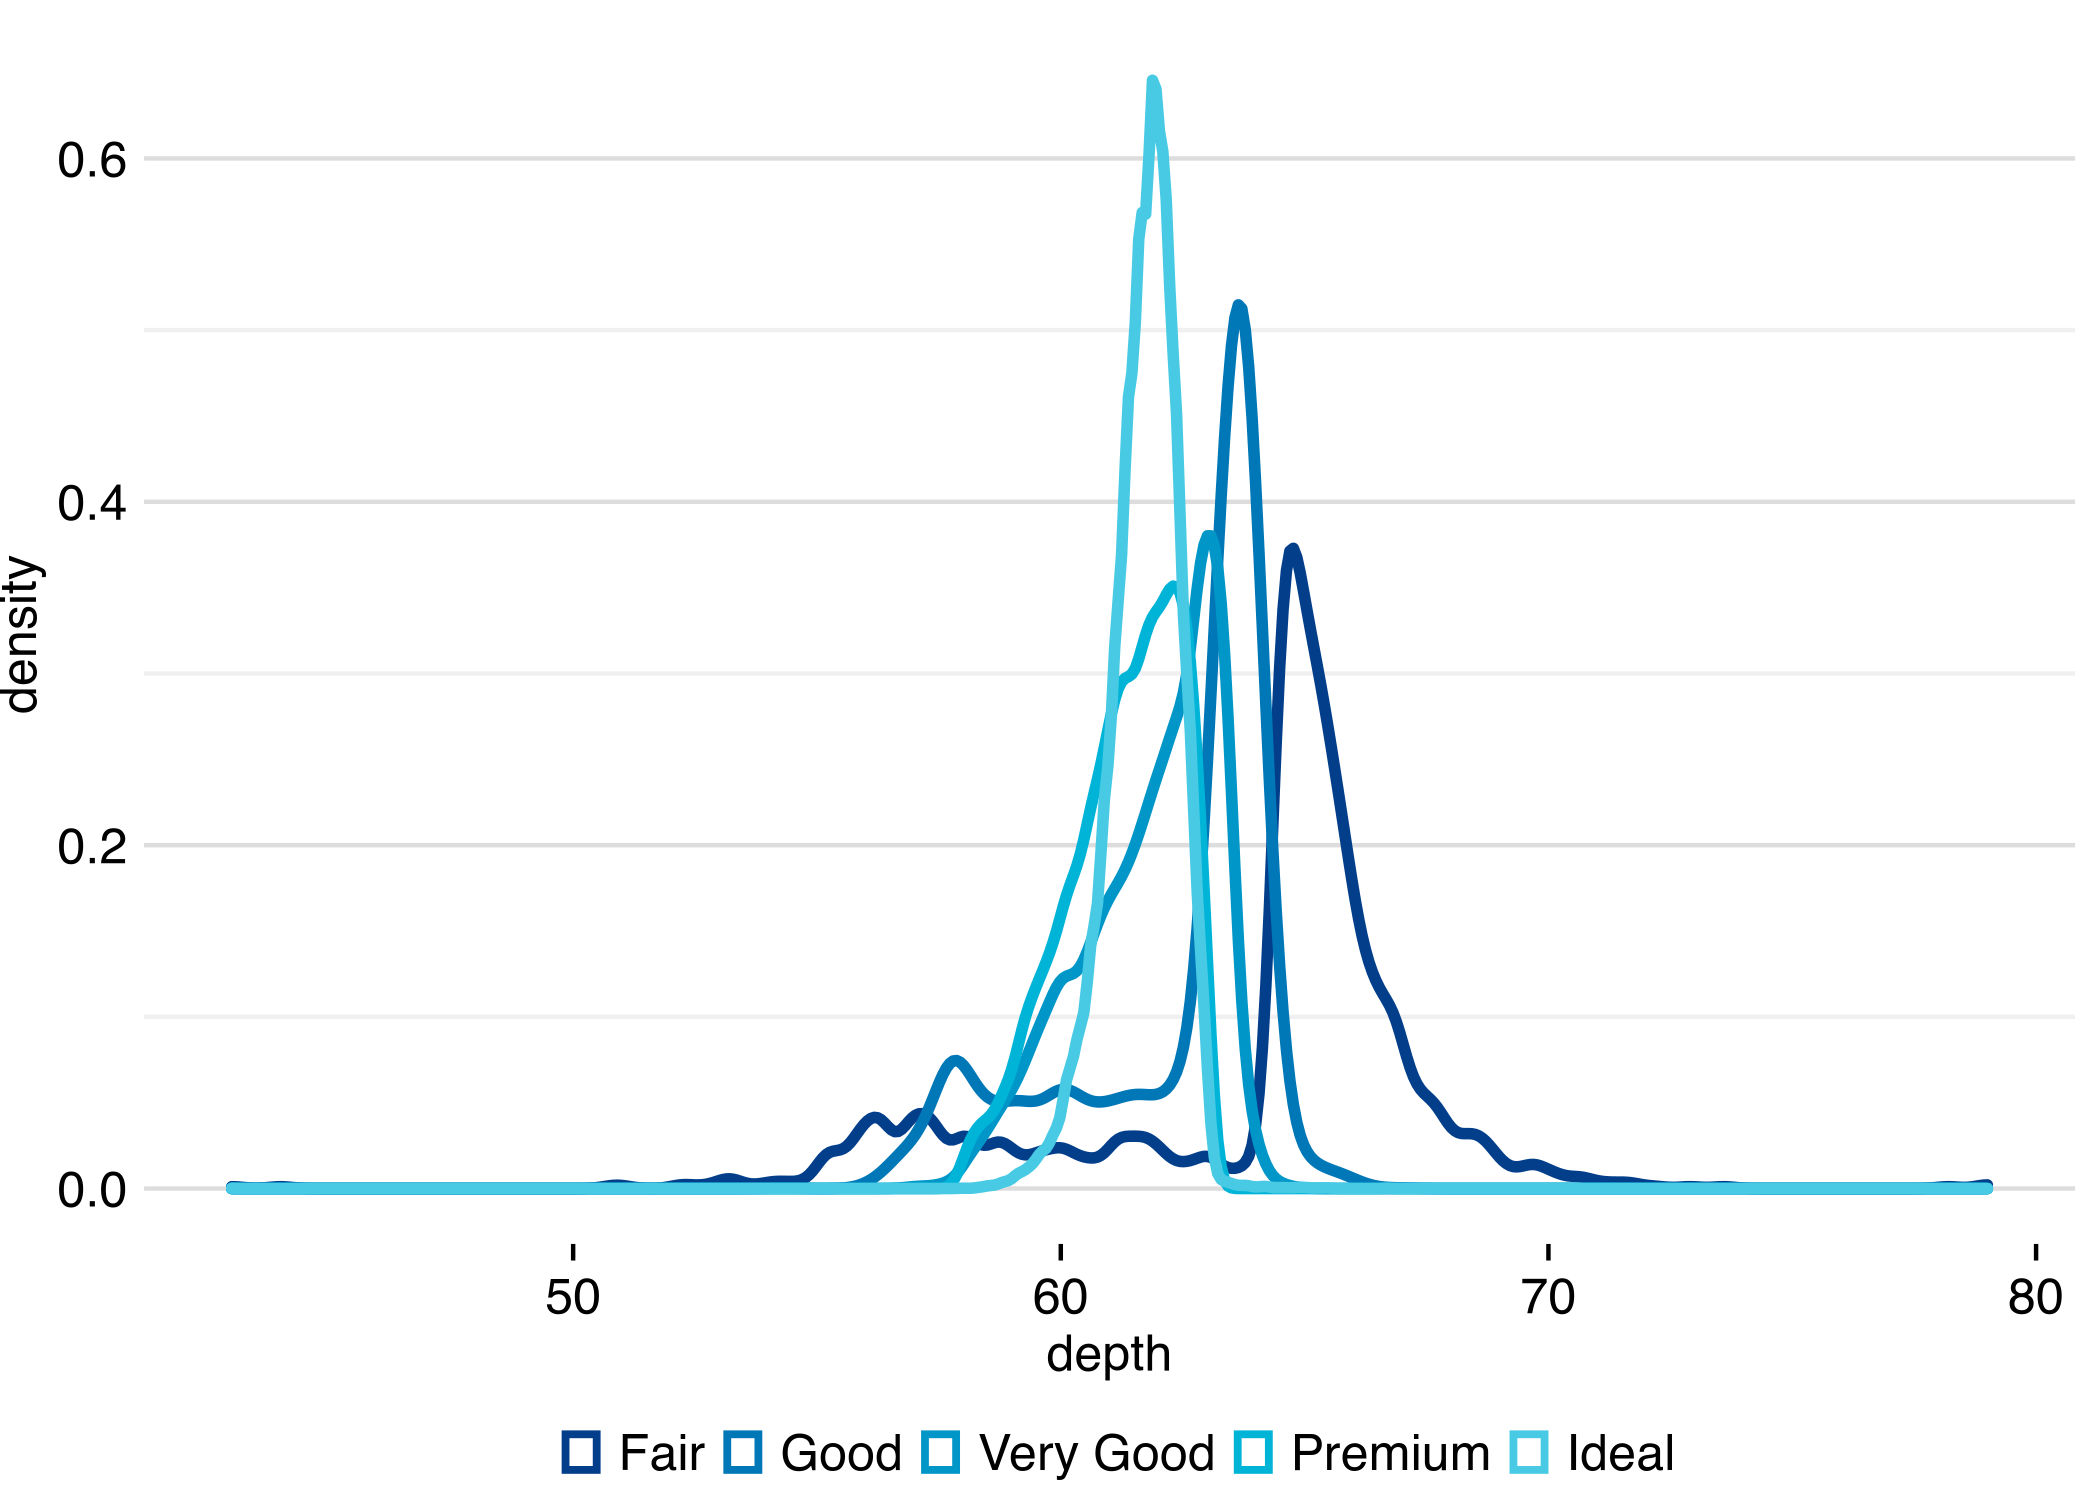
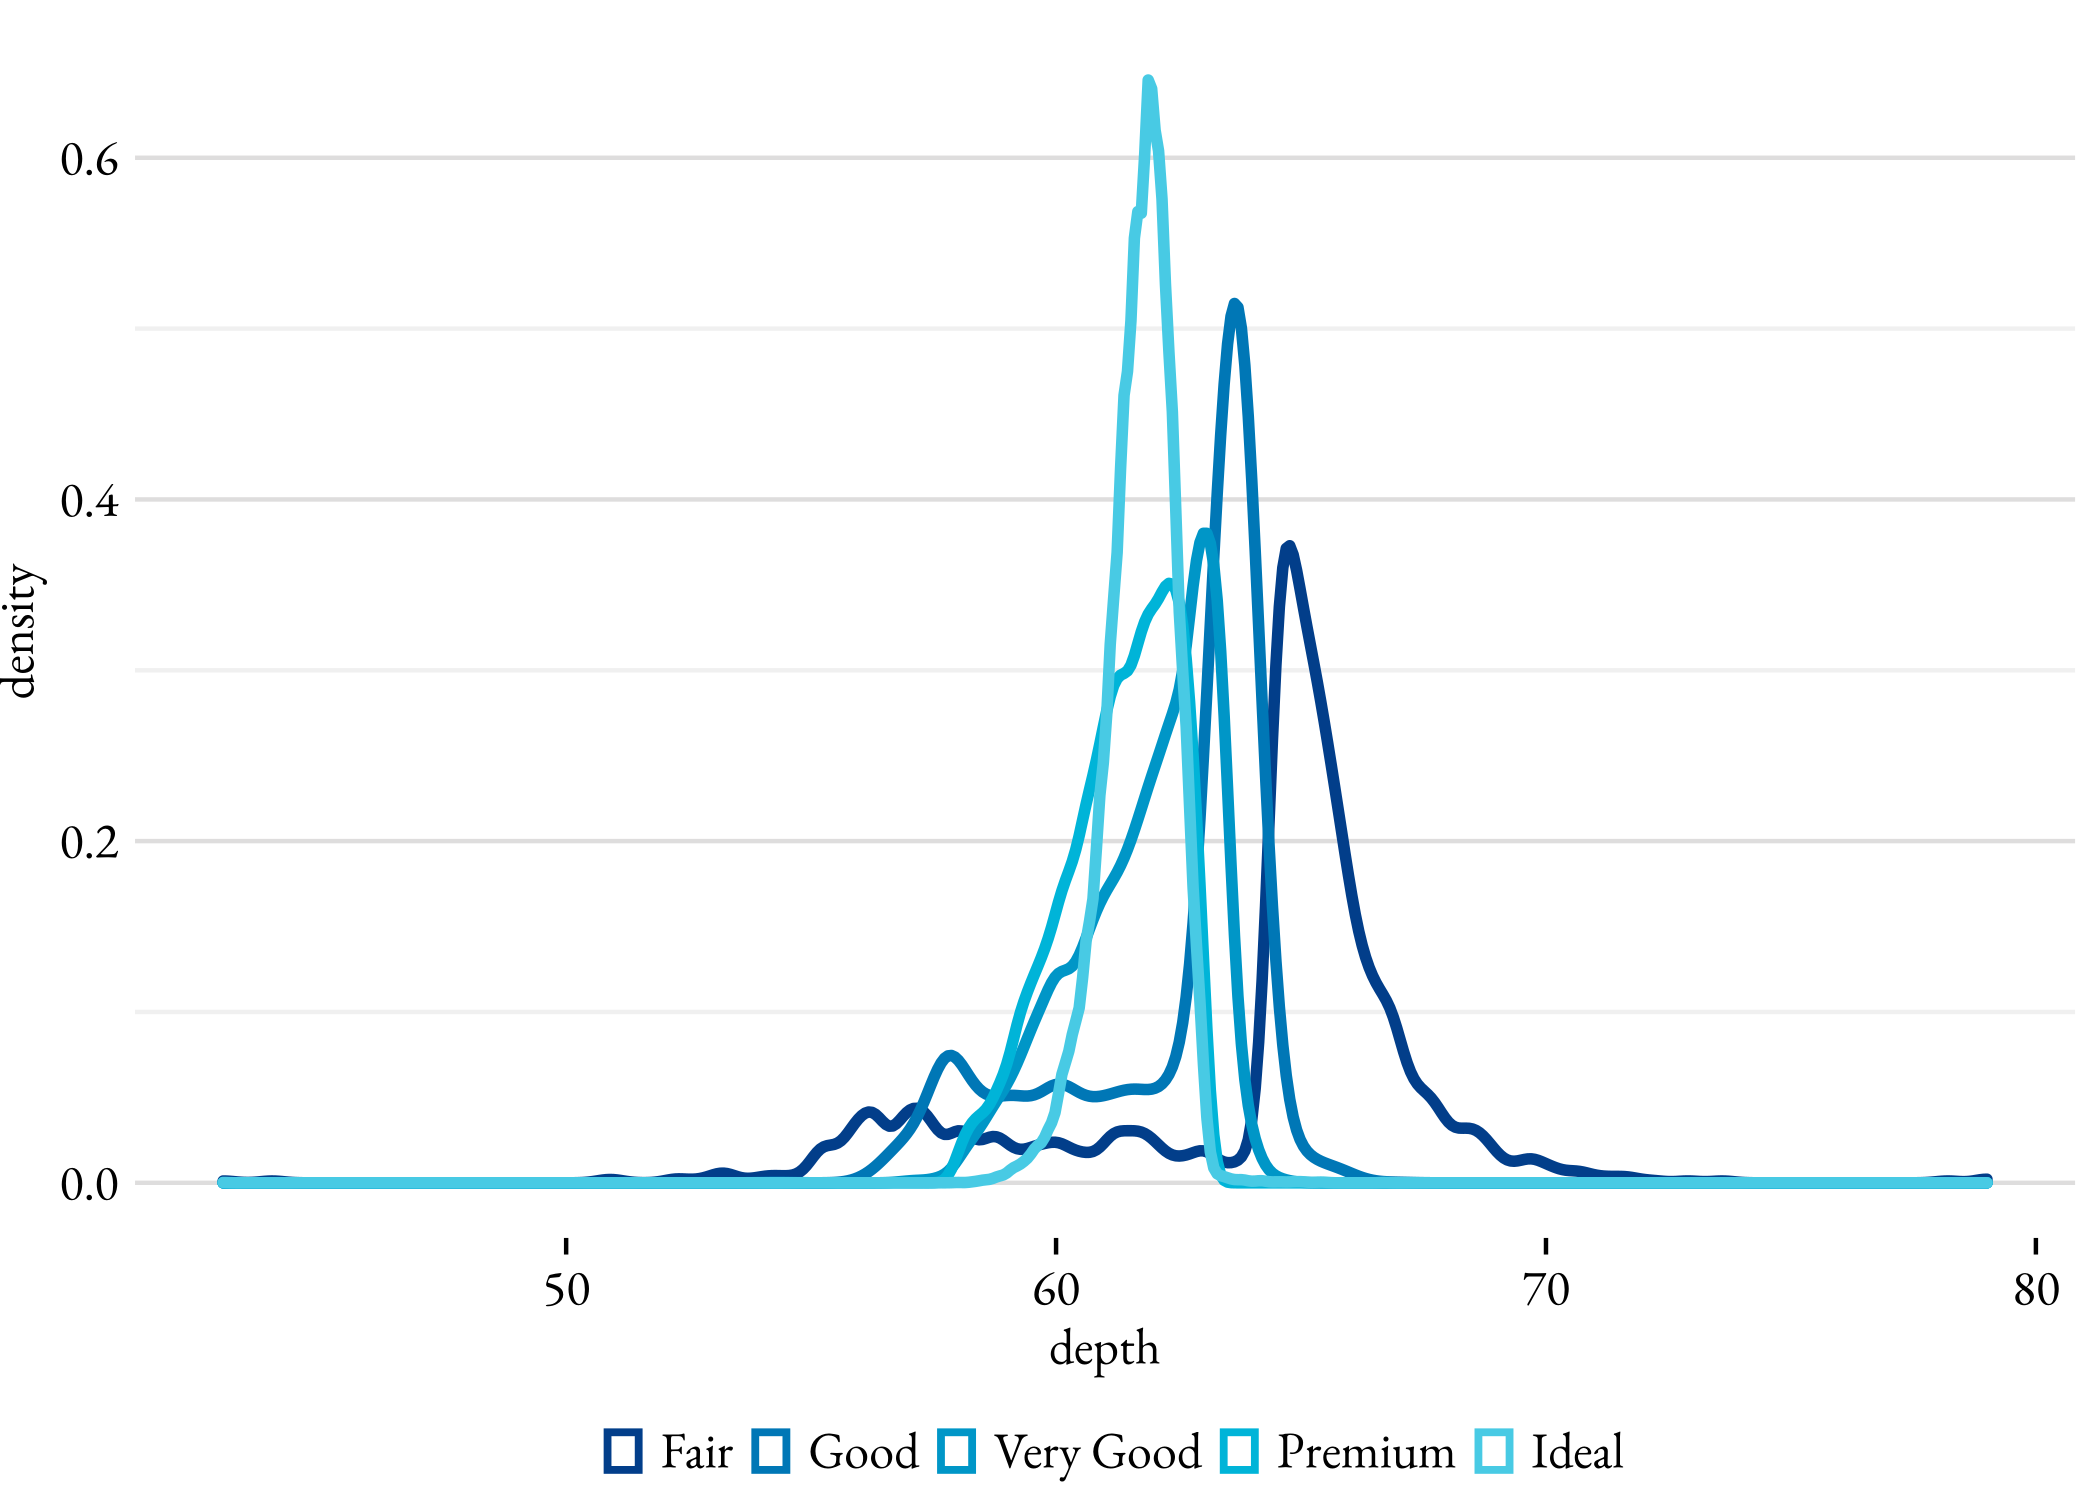
add load_font arg

diff --git a/README.md b/README.md
@@ -23,15 +23,6 @@ library(ggplot2)
 library(petgg)
 ```
 
-    ## 
-    ## Attaching package: 'petgg'
-
-    ## The following objects are masked from 'package:ggplot2':
-    ## 
-    ##     geom_bar, geom_col, position_dodge, scale_color_discrete,
-    ##     scale_colour_discrete, scale_colour_ordinal, scale_fill_discrete,
-    ##     scale_fill_ordinal
-
 A função `petgg::set_theme()` aplica o tema.
 
 ``` r
@@ -73,7 +64,7 @@ ggplot(mpg) +
 
 > `character`
 
-> Padrão é `"Helvetica"`
+> Padrão é `"EB Garamond"`
 
 Para listar todas as fontes disponíveis que você pode utilizar:
 
@@ -81,16 +72,42 @@ Para listar todas as fontes disponíveis que você pode utilizar:
 names(pdfFonts())
 ```
 
-    ##  [1] "serif"                "sans"                 "mono"                
-    ##  [4] "AvantGarde"           "Bookman"              "Courier"             
-    ##  [7] "Helvetica"            "Helvetica-Narrow"     "NewCenturySchoolbook"
-    ## [10] "Palatino"             "Times"                "URWGothic"           
-    ## [13] "URWBookman"           "NimbusMon"            "NimbusSan"           
-    ## [16] "URWHelvetica"         "NimbusSanCond"        "CenturySch"          
-    ## [19] "URWPalladio"          "NimbusRom"            "URWTimes"            
-    ## [22] "ArialMT"              "Japan1"               "Japan1HeiMin"        
-    ## [25] "Japan1GothicBBB"      "Japan1Ryumin"         "Korea1"              
-    ## [28] "Korea1deb"            "CNS1"                 "GB1"
+    ##  [1] "serif"                         "sans"                         
+    ##  [3] "mono"                          "AvantGarde"                   
+    ##  [5] "Bookman"                       "Courier"                      
+    ##  [7] "Helvetica"                     "Helvetica-Narrow"             
+    ##  [9] "NewCenturySchoolbook"          "Palatino"                     
+    ## [11] "Times"                         "URWGothic"                    
+    ## [13] "URWBookman"                    "NimbusMon"                    
+    ## [15] "NimbusSan"                     "URWHelvetica"                 
+    ## [17] "NimbusSanCond"                 "CenturySch"                   
+    ## [19] "URWPalladio"                   "NimbusRom"                    
+    ## [21] "URWTimes"                      "ArialMT"                      
+    ## [23] "Japan1"                        "Japan1HeiMin"                 
+    ## [25] "Japan1GothicBBB"               "Japan1Ryumin"                 
+    ## [27] "Korea1"                        "Korea1deb"                    
+    ## [29] "CNS1"                          "GB1"                          
+    ## [31] "EB Garamond"                   "EB Garamond ExtraBold"        
+    ## [33] "EB Garamond Medium"            "EB Garamond SemiBold"         
+    ## [35] "Fira Code"                     "Fira Code Light"              
+    ## [37] "Fira Code Medium"              "Fira Code Retina"             
+    ## [39] "Fira Mono"                     "Fira Mono Medium"             
+    ## [41] "Fira Sans"                     "Fira Sans Book"               
+    ## [43] "Fira Sans Eight"               "Fira Sans ExtraBold"          
+    ## [45] "Fira Sans ExtraLight"          "Fira Sans Four"               
+    ## [47] "Fira Sans Hair"                "Fira Sans Heavy"              
+    ## [49] "Fira Sans Light"               "Fira Sans Medium"             
+    ## [51] "Fira Sans SemiBold"            "Fira Sans Thin"               
+    ## [53] "Fira Sans Two"                 "Fira Sans Ultra"              
+    ## [55] "Fira Sans UltraLight"          "Font Awesome 5 Brands Regular"
+    ## [57] "Font Awesome 5 Free Regular"   "Font Awesome 5 Free Solid"    
+    ## [59] "Inconsolata"                   "JetBrains Mono"               
+    ## [61] "JetBrains Mono ExtraBold"      "JetBrains Mono Medium"        
+    ## [63] "Liberation Mono"               "Liberation Sans"              
+    ## [65] "Liberation Serif"              "Open Sans"                    
+    ## [67] "Open Sans ExtraBold"           "Open Sans Light"              
+    ## [69] "Open Sans SemiBold"            "Open Sans Condensed Light"    
+    ## [71] "Soleil"                        "Times New Roman"
 
 ``` r
 petgg::set_theme(base_family = "Courier")
@@ -101,6 +118,10 @@ ggplot(diamonds) +
 ```
 
 ![](README_files/figure-gfm/unnamed-chunk-6-1.png)<!-- -->
+
+`load_font` argumento carrega fontes pelo pacote `extrafont`. Padrão é
+`TRUE`. Para importar fontes execute
+`extrafont::font_import(prompt = FALSE)`
 
 ### Título dos eixos
 
